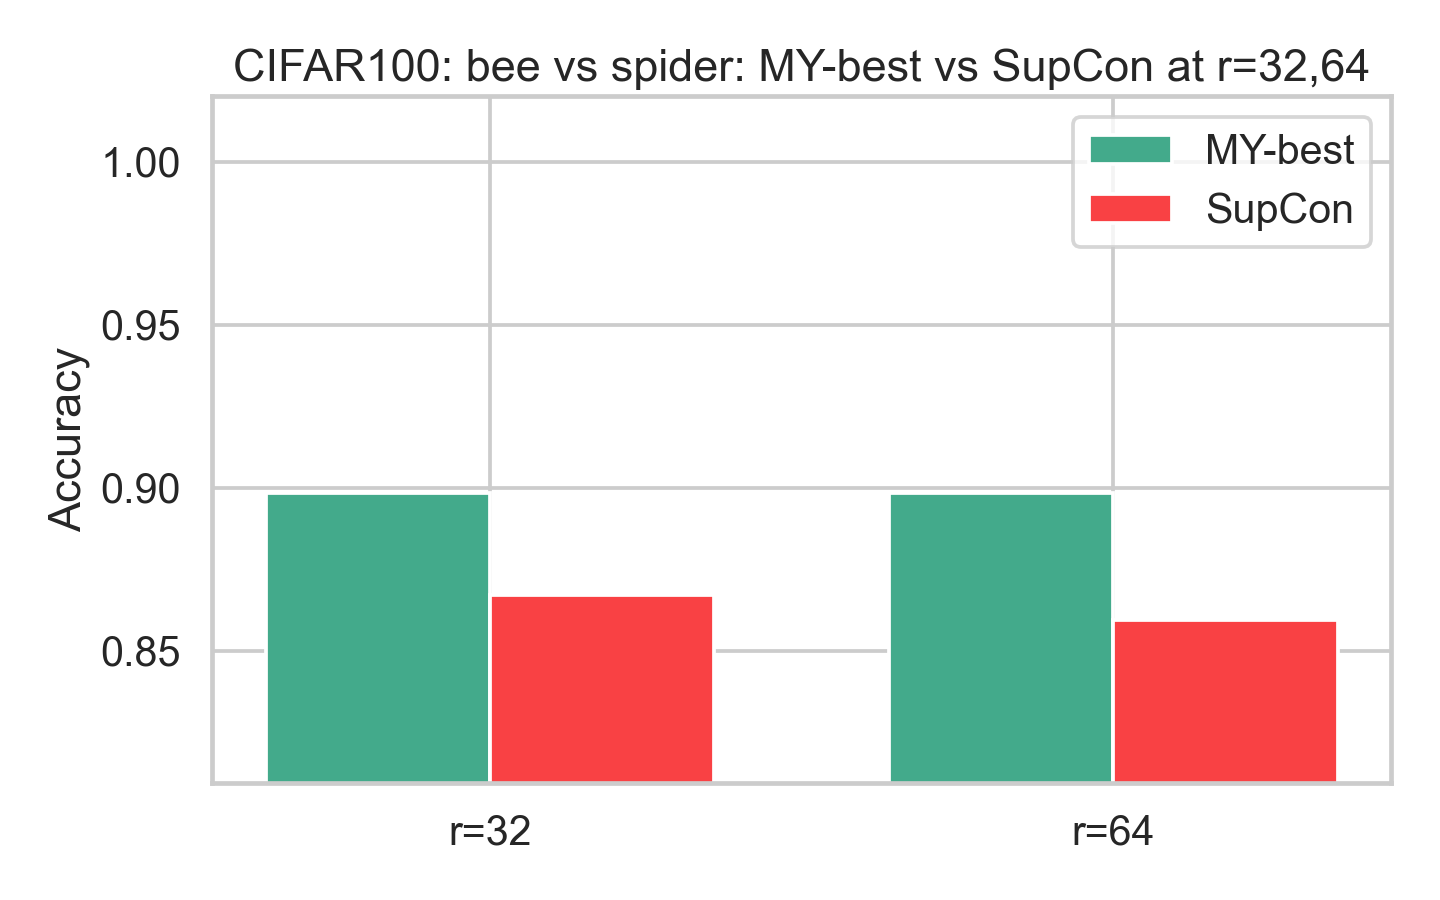
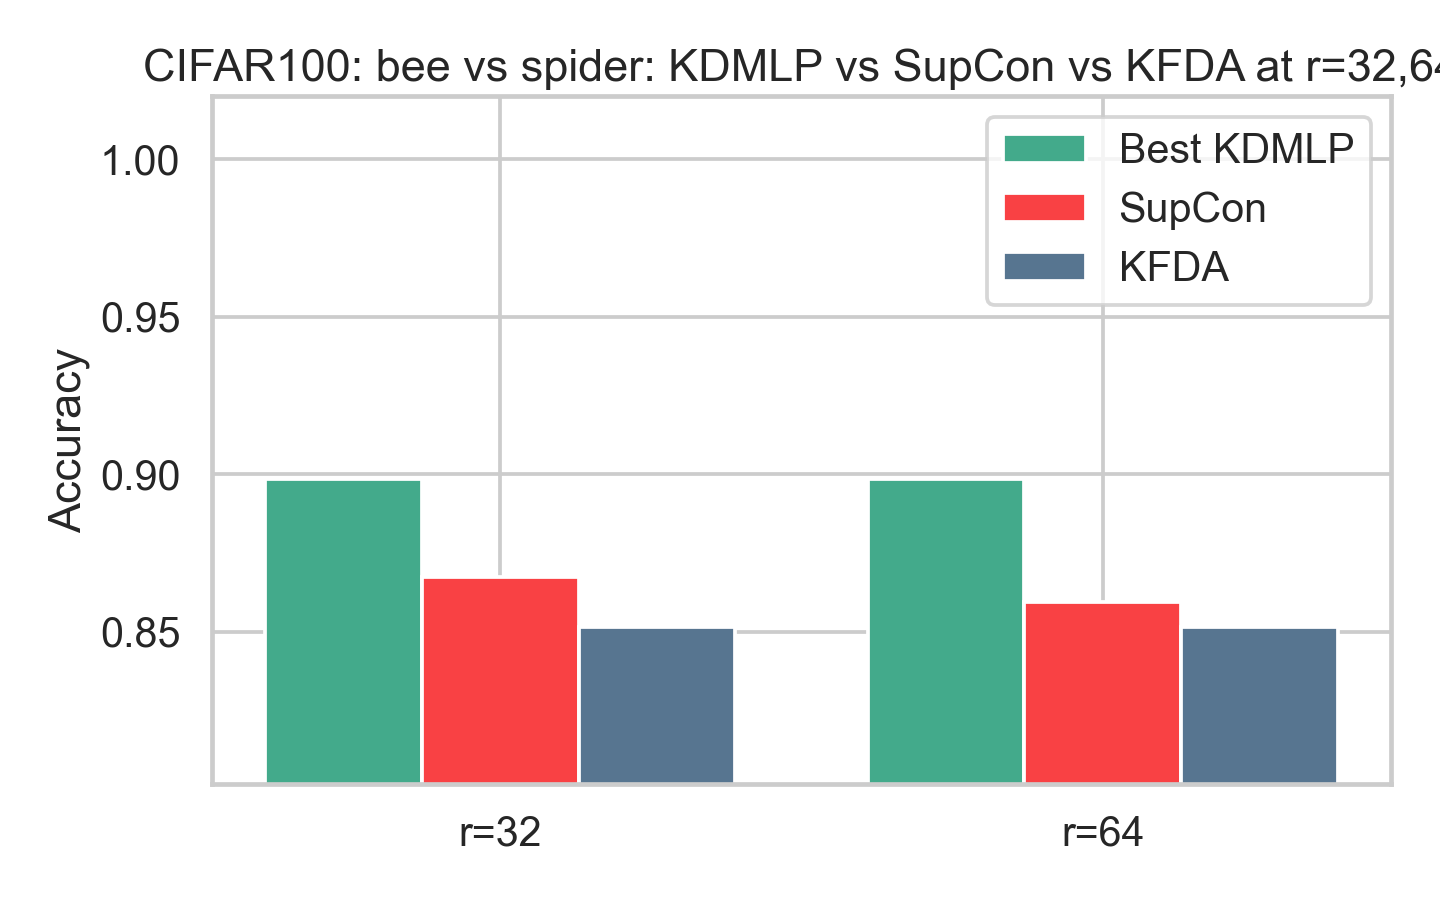
Clarify CIFAR-100 KDMLP comparison plots

diff --git a/simulations/supcon_cifar100_workspace/cifar100_same_r_supcon_vs_ours.py b/simulations/supcon_cifar100_workspace/cifar100_same_r_supcon_vs_ours.py
@@ -53,6 +53,13 @@ from compare_supcon_vs_ours import (  # type: ignore
 
 sns.set_theme(style="whitegrid", context="talk")
 
+METHOD_LABELS = {
+    "KFDA": "KFDA",
+    "MY-large_mu": "KDMLP large",
+    "MY-small_mu": "KDMLP small",
+    "SupCon": "SupCon",
+}
+
 PAIR_SETTINGS = [
     ("beaver", "possum"),
     ("clock", "tractor"),
@@ -337,7 +344,15 @@ def plot_pair(exp: dict, acc_summary: pd.DataFrame, compact: pd.DataFrame):
     for method, color, linestyle in [("KFDA", "#577590", "--"), ("MY-large_mu", "#43aa8b", "-"), ("MY-small_mu", "#f8961e", "-"), ("SupCon", "#f94144", "-")]:
         sub = acc_summary[acc_summary["method"] == method].sort_values("r")
         if len(sub):
-            ax.plot(sub["r"], sub["acc_mean"], marker="o", linewidth=2.5, linestyle=linestyle, label=method, color=color)
+            ax.plot(
+                sub["r"],
+                sub["acc_mean"],
+                marker="o",
+                linewidth=2.5,
+                linestyle=linestyle,
+                label=METHOD_LABELS[method],
+                color=color,
+            )
     ax.set_xlabel("Reduced dimension r")
     ax.set_ylabel("Accuracy")
     ax.set_title(meta["task_name"])
@@ -351,7 +366,7 @@ def plot_pair(exp: dict, acc_summary: pd.DataFrame, compact: pd.DataFrame):
         fig, ax = plt.subplots(figsize=(8, 5))
         x = np.arange(len(sub))
         width = 0.26
-        ax.bar(x - width, sub["my_best_acc"], width=width, color="#43aa8b", label="MY-best")
+        ax.bar(x - width, sub["my_best_acc"], width=width, color="#43aa8b", label="Best KDMLP")
         ax.bar(x, sub["supcon_acc"], width=width, color="#f94144", label="SupCon")
         ax.bar(x + width, sub["kfda_acc"], width=width, color="#577590", label="KFDA")
         ax.set_xticks(x, [f"r={int(r)}" for r in sub["r"]])
@@ -362,6 +377,21 @@ def plot_pair(exp: dict, acc_summary: pd.DataFrame, compact: pd.DataFrame):
         plt.tight_layout()
         fig.savefig(OUT / f"{tag}_dim32_64_bar.png", dpi=180)
         plt.close(fig)
+
+
+def plot_mean_curve(df_all_compact: pd.DataFrame) -> None:
+    fig, ax = plt.subplots(figsize=(10, 6))
+    mean_curve = df_all_compact.groupby("r", as_index=False)[["my_best_acc", "supcon_acc", "kfda_acc"]].mean()
+    ax.plot(mean_curve["r"], mean_curve["my_best_acc"], marker="o", linewidth=2.5, label="Best KDMLP mean", color="#43aa8b")
+    ax.plot(mean_curve["r"], mean_curve["supcon_acc"], marker="o", linewidth=2.5, label="SupCon mean", color="#f94144")
+    ax.plot(mean_curve["r"], mean_curve["kfda_acc"], marker="o", linewidth=2.5, linestyle="--", label="KFDA mean", color="#577590")
+    ax.set_xlabel("Reduced dimension r")
+    ax.set_ylabel("Mean accuracy across selected CIFAR-100 pairs")
+    ax.set_title("Same-r CIFAR-100 comparison (KDMLP vs SupCon vs KFDA)")
+    ax.legend()
+    plt.tight_layout()
+    fig.savefig(OUT / "cifar100_same_r_mean_curve.png", dpi=180)
+    plt.close(fig)
 
 
 def main():
@@ -392,18 +422,7 @@ def main():
     df_all_acc.to_csv(OUT / "cifar100_same_r_summary_all.csv", index=False)
     df_all_compact.to_csv(OUT / "cifar100_same_r_compact_all.csv", index=False)
 
-    fig, ax = plt.subplots(figsize=(10, 6))
-    mean_curve = df_all_compact.groupby("r", as_index=False)[["my_best_acc", "supcon_acc", "kfda_acc"]].mean()
-    ax.plot(mean_curve["r"], mean_curve["my_best_acc"], marker="o", linewidth=2.5, label="MY-best mean", color="#43aa8b")
-    ax.plot(mean_curve["r"], mean_curve["supcon_acc"], marker="o", linewidth=2.5, label="SupCon mean", color="#f94144")
-    ax.plot(mean_curve["r"], mean_curve["kfda_acc"], marker="o", linewidth=2.5, linestyle="--", label="KFDA mean", color="#577590")
-    ax.set_xlabel("Reduced dimension r")
-    ax.set_ylabel("Mean accuracy across selected CIFAR-100 pairs")
-    ax.set_title("Same-r CIFAR-100 comparison (KDMLP vs SupCon vs KFDA)")
-    ax.legend()
-    plt.tight_layout()
-    fig.savefig(OUT / "cifar100_same_r_mean_curve.png", dpi=180)
-    plt.close(fig)
+    plot_mean_curve(df_all_compact)
 
     print("\nInterpretation:")
     print(build_same_r_cifar_summary(df_all_compact))

diff --git a/simulations/supcon_cifar100_workspace/cifar100_scan_supcon_vs_ours.py b/simulations/supcon_cifar100_workspace/cifar100_scan_supcon_vs_ours.py
@@ -16,13 +16,31 @@ from torchvision import datasets
 
 
 ROOT = Path(__file__).resolve().parent.parent
+REPO_ROOT = ROOT.parent
+PROJECT_ROOT = REPO_ROOT.parent
 OUT = Path(__file__).resolve().parent / "outputs"
 OUT.mkdir(parents=True, exist_ok=True)
 PAIR_CACHE = OUT / "pair_cache"
 PAIR_CACHE.mkdir(parents=True, exist_ok=True)
-VISION_ROOT = ROOT / "modern_benchmark_data" / "vision"
+for candidate in (
+    ROOT / "modern_benchmark_data" / "vision",
+    REPO_ROOT / "modern_benchmark_data" / "vision",
+    PROJECT_ROOT / "modern_benchmark_data" / "vision",
+):
+    if candidate.exists():
+        VISION_ROOT = candidate
+        break
+else:
+    VISION_ROOT = ROOT / "modern_benchmark_data" / "vision"
 
-sys.path.insert(0, str(ROOT / "supcon_comparison_workspace"))
+for candidate in (
+    ROOT / "supcon_comparison_workspace",
+    REPO_ROOT / "supcon_comparison_workspace",
+    PROJECT_ROOT / "supcon_comparison_workspace",
+):
+    if candidate.exists():
+        sys.path.insert(0, str(candidate))
+        break
 
 from compare_supcon_vs_ours import (  # type: ignore
     NOTEBOOK_PATH,
@@ -193,8 +211,8 @@ def make_final_plots(ns: dict, exp: dict, *, tag: str):
     best = exp["ours_best"]
     bar_rows = [
         {"method": "KFDA-1D", "acc_mean": best["KFDA"]["acc_mean"], "acc_std": best["KFDA"]["acc_std"]},
-        {"method": "MY-large_mu", "acc_mean": best["MY-large_mu"]["acc_mean"], "acc_std": best["MY-large_mu"]["acc_std"]},
-        {"method": "MY-small_mu", "acc_mean": best["MY-small_mu"]["acc_mean"], "acc_std": best["MY-small_mu"]["acc_std"]},
+        {"method": "KDMLP large", "acc_mean": best["MY-large_mu"]["acc_mean"], "acc_std": best["MY-large_mu"]["acc_std"]},
+        {"method": "KDMLP small", "acc_mean": best["MY-small_mu"]["acc_mean"], "acc_std": best["MY-small_mu"]["acc_std"]},
         {"method": "SupCon", "acc_mean": exp["supcon_mean"], "acc_std": exp["supcon_std"]},
     ]
     df_bar = pd.DataFrame(bar_rows)
@@ -213,9 +231,10 @@ def make_final_plots(ns: dict, exp: dict, *, tag: str):
         .groupby(["family", "r"], as_index=False)[["acc_mean"]].mean()
     )
     fig, ax = plt.subplots(figsize=(9, 5))
+    display_labels = {"MY-large_mu": "KDMLP large", "MY-small_mu": "KDMLP small"}
     for fam, color in [("MY-large_mu", "#43aa8b"), ("MY-small_mu", "#f8961e")]:
         sub = df_curve[df_curve["family"] == fam].sort_values("r")
-        ax.plot(sub["r"], sub["acc_mean"], marker="o", linewidth=2.5, label=fam, color=color)
+        ax.plot(sub["r"], sub["acc_mean"], marker="o", linewidth=2.5, label=display_labels[fam], color=color)
     ax.axhline(best["KFDA"]["acc_mean"], linestyle="--", color="#577590", label="KFDA-1D")
     ax.axhline(exp["supcon_mean"], linestyle=":", color="#f94144", label="SupCon")
     ax.set_xlabel("Projection dimension r")
@@ -309,7 +328,7 @@ def main():
     labels = [f"{a} vs {b}" for a, b in zip(sub["class0"], sub["class1"])]
     ax.barh(labels, sub["margin"], color=colors)
     ax.axvline(0.0, color="black", linewidth=1.2)
-    ax.set_xlabel("MY-best minus SupCon accuracy")
+    ax.set_xlabel("Best KDMLP minus SupCon accuracy")
     ax.set_title("CIFAR-100 full-check margins")
     plt.tight_layout()
     fig.savefig(OUT / "cifar100_margin_plot.png", dpi=180)

diff --git a/simulations/supcon_cifar100_workspace/cifar100_more_examples_search.py b/simulations/supcon_cifar100_workspace/cifar100_more_examples_search.py
@@ -68,7 +68,7 @@ def make_scan_plot(df_scan: pd.DataFrame):
     colors = ["#43aa8b" if m > 0 else "#f94144" for m in sub["margin"]]
     ax.barh(labels, sub["margin"], color=colors)
     ax.axvline(0.0, color="black", linewidth=1.2)
-    ax.set_xlabel("MY-best minus SupCon accuracy")
+    ax.set_xlabel("Best KDMLP minus SupCon accuracy")
     ax.set_title("Broader CIFAR-100 quick scan")
     plt.tight_layout()
     fig.savefig(OUT / "cifar100_more_scan_margins.png", dpi=180)
@@ -79,7 +79,7 @@ def make_shortlist_plot(df_compact: pd.DataFrame):
     fig, ax = plt.subplots(figsize=(10, 6))
     for task, sub in df_compact.groupby("task"):
         short_label = task.replace("CIFAR100: ", "")
-        ax.plot(sub["r"], sub["my_best_acc"], marker="o", linewidth=2.2, label=f"{short_label} | MY")
+        ax.plot(sub["r"], sub["my_best_acc"], marker="o", linewidth=2.2, label=f"{short_label} | KDMLP")
         ax.plot(sub["r"], sub["supcon_acc"], marker="o", linewidth=1.6, linestyle="--", alpha=0.85, label=f"{short_label} | SupCon")
     ax.set_xlabel("Reduced dimension r")
     ax.set_ylabel("Accuracy")
@@ -87,6 +87,25 @@ def make_shortlist_plot(df_compact: pd.DataFrame):
     ax.legend(fontsize=10, ncol=2)
     plt.tight_layout()
     fig.savefig(OUT / "cifar100_more_examples_same_r.png", dpi=180)
+    plt.close(fig)
+
+
+def make_mean_curve(df_compact: pd.DataFrame):
+    fig, ax = plt.subplots(figsize=(9, 5))
+    columns = ["my_best_acc", "supcon_acc"]
+    if "kfda_acc" in df_compact.columns:
+        columns.append("kfda_acc")
+    mean_curve = df_compact.groupby("r", as_index=False)[columns].mean()
+    ax.plot(mean_curve["r"], mean_curve["my_best_acc"], marker="o", linewidth=2.4, label="Best KDMLP mean", color="#43aa8b")
+    ax.plot(mean_curve["r"], mean_curve["supcon_acc"], marker="o", linewidth=2.4, label="SupCon mean", color="#f94144")
+    if "kfda_acc" in mean_curve.columns:
+        ax.plot(mean_curve["r"], mean_curve["kfda_acc"], marker="o", linewidth=2.4, linestyle="--", label="KFDA mean", color="#577590")
+    ax.set_xlabel("Reduced dimension r")
+    ax.set_ylabel("Mean accuracy across shortlist")
+    ax.set_title("CIFAR-100 shortlist: mean same-r curve")
+    ax.legend()
+    plt.tight_layout()
+    fig.savefig(OUT / "cifar100_same_r_mean_curve.png", dpi=180)
     plt.close(fig)
 
 
@@ -186,17 +205,7 @@ def main():
 
     make_shortlist_plot(df_all_compact)
 
-    fig, ax = plt.subplots(figsize=(9, 5))
-    mean_curve = df_all_compact.groupby("r", as_index=False)[["my_best_acc", "supcon_acc"]].mean()
-    ax.plot(mean_curve["r"], mean_curve["my_best_acc"], marker="o", linewidth=2.4, label="MY-best mean", color="#43aa8b")
-    ax.plot(mean_curve["r"], mean_curve["supcon_acc"], marker="o", linewidth=2.4, label="SupCon mean", color="#f94144")
-    ax.set_xlabel("Reduced dimension r")
-    ax.set_ylabel("Mean accuracy across shortlist")
-    ax.set_title("CIFAR-100 shortlist: mean same-r curve")
-    ax.legend()
-    plt.tight_layout()
-    fig.savefig(OUT / "cifar100_same_r_mean_curve.png", dpi=180)
-    plt.close(fig)
+    make_mean_curve(df_all_compact)
 
     print("\nQuick-scan top rows:")
     print(df_scan.head(10).to_string(index=False))

diff --git a/README.md b/README.md
@@ -121,14 +121,28 @@ This workspace extends the same-`r` comparison to OpenML binary classification t
 
 Workspace: `simulations/supcon_cifar100_workspace`
 
-These experiments compare a selected set of binary CIFAR-100 tasks, using the same final dimension `r` for all three methods in the summary plots. The most useful pairs show that `KDMLP large` can outperform SupCon while still using a small or moderate target dimension, and the KFDA reference is now shown on the same `r` axis as a flat binary baseline.
+These feature-level experiments hold the initial image representation fixed: every CIFAR-100 image is mapped to the same 512-dimensional feature vector by a frozen ImageNet-pretrained ResNet-18. KDMLP operates directly on those vectors, whereas SupCon trains an additional contrastive encoder on the same training features. SupCon is then reduced by training-set PCA so that both methods are evaluated at the same final dimension `r`. Each selected binary task contains 80 images per class and is evaluated over two stratified 60/40 splits; KFDA is included as a flat 1D binary reference.
 
-| Label | Task | Best `r` | Best KDMLP | SupCon | KFDA |
+The four tasks below were retained from an exploratory pair scan. The reported `r` maximizes the observed KDMLP-minus-SupCon margin over `r in {1,2,3,4,5,6,32,64}`, so these are representative cases rather than an unbiased CIFAR-100 benchmark.
+
+| Label | Task | Reported `r` | Best KDMLP | SupCon | KFDA |
 | --- | --- | ---: | ---: | ---: | ---: |
-| A | beaver vs possum | 2 | 0.906 | 0.844 | 0.836 |
-| B | clock vs tractor | 1 | 1.000 | 1.000 | 1.000 |
+| A | lion vs possum | 4 | 0.992 | 0.930 | 0.984 |
+| B | bee vs spider | 64 | 0.898 | 0.859 | 0.852 |
+| C | bear vs palm tree | 64 | 0.984 | 0.969 | 0.984 |
+| D | palm tree vs train | 5 | 0.953 | 0.938 | 0.930 |
 
-![CIFAR-100 KDMLP vs SupCon vs KFDA](simulations/supcon_cifar100_workspace/outputs_same_r/cifar100_same_r_mean_curve.png)
+The overview shows all four same-`r` KDMLP and SupCon curves. The pair-level figures below retain both KDMLP regimes and the KFDA reference, making it possible to inspect the full dimension dependence rather than only the selected summary point.
+
+![Selected CIFAR-100 same-r overview](simulations/supcon_cifar100_workspace/outputs_more_examples/cifar100_more_examples_same_r.png)
+
+![CIFAR-100 lion vs possum details](simulations/supcon_cifar100_workspace/outputs_more_examples/lion_vs_possum_same_r_curve.png)
+
+![CIFAR-100 bee vs spider details](simulations/supcon_cifar100_workspace/outputs_more_examples/bee_vs_spider_same_r_curve.png)
+
+![CIFAR-100 bear vs palm tree details](simulations/supcon_cifar100_workspace/outputs_more_examples/bear_vs_palm_tree_same_r_curve.png)
+
+![CIFAR-100 palm tree vs train details](simulations/supcon_cifar100_workspace/outputs_more_examples/palm_tree_vs_train_same_r_curve.png)
 
 ## 6. Real-Data Gains As `r` Increases
 

diff --git a/simulations/supcon_cifar100_workspace/README.md b/simulations/supcon_cifar100_workspace/README.md
@@ -1,4 +1,4 @@
-# CIFAR-100 SupCon vs Our Method
+# CIFAR-100 KDMLP vs SupCon
 
 Main script:
 
@@ -16,4 +16,25 @@ Outputs:
 - `outputs_same_r/beaver_vs_possum_same_r_summary.csv`
 - `outputs_same_r/clock_vs_tractor_same_r_summary.csv`
 
-This workspace compares a selected set of CIFAR-100 binary pairs, then reports the most useful same-`r` comparisons with stronger settings. In the same-`r` summaries, KFDA is shown across the tested `r` grid as a flat binary reference, while KDMLP and SupCon vary with the chosen target dimension.
+This workspace compares selected CIFAR-100 binary pairs using a common frozen ImageNet-pretrained ResNet-18 representation. KDMLP operates on the resulting 512-dimensional feature vectors, while the feature-level SupCon baseline trains an additional contrastive encoder on the same training vectors. Training-set PCA reduces the SupCon encoder output to the same final dimension `r` used by KDMLP. KFDA is shown across the tested `r` grid as a flat 1D binary reference.
+
+The detailed shortlist contains four exploratory examples evaluated at `r in {1,2,3,4,5,6,32,64}` over two stratified splits:
+
+| Label | Task | Reported `r` | KDMLP | SupCon | KFDA |
+| --- | --- | ---: | ---: | ---: | ---: |
+| A | lion vs possum | 4 | 0.992 | 0.930 | 0.984 |
+| B | bee vs spider | 64 | 0.898 | 0.859 | 0.852 |
+| C | bear vs palm tree | 64 | 0.984 | 0.969 | 0.984 |
+| D | palm tree vs train | 5 | 0.953 | 0.938 | 0.930 |
+
+The reported dimension maximizes the observed KDMLP-minus-SupCon margin and is therefore descriptive rather than validation-selected.
+
+![Selected CIFAR-100 same-r overview](outputs_more_examples/cifar100_more_examples_same_r.png)
+
+![Lion vs possum details](outputs_more_examples/lion_vs_possum_same_r_curve.png)
+
+![Bee vs spider details](outputs_more_examples/bee_vs_spider_same_r_curve.png)
+
+![Bear vs palm tree details](outputs_more_examples/bear_vs_palm_tree_same_r_curve.png)
+
+![Palm tree vs train details](outputs_more_examples/palm_tree_vs_train_same_r_curve.png)
